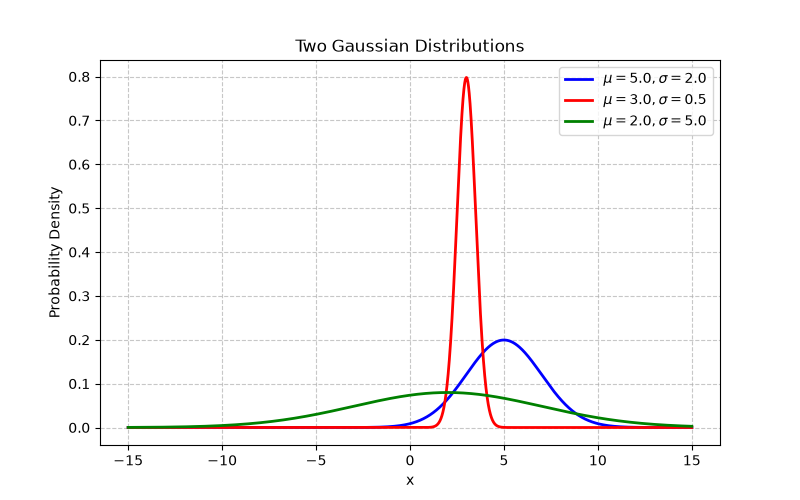
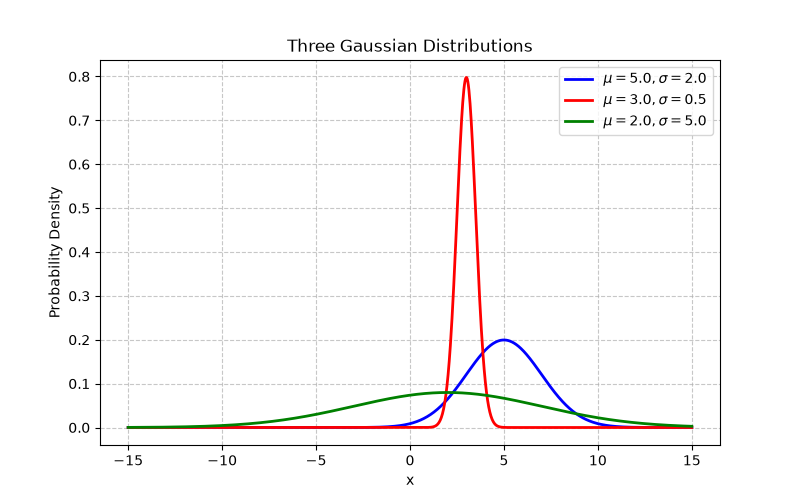
W6D3: claude added test functions

diff --git a/phase_1_math/week_6/d3_gaussian_class.py b/phase_1_math/week_6/d3_gaussian_class.py
@@ -25,49 +25,137 @@ class Gaussian():
         return mle_mean, mle_std
 
 
+def check(name, passed, detail=""):
+    """Print one PASS/FAIL line and return the boolean so the runner can tally."""
+    print(f"  [{'PASS' if passed else 'FAIL'}] {name}" + (f"   ({detail})" if detail else ""))
+    return bool(passed)
+
+
+def test_fit_recovers_parameters(mean, std, n=10_000, k=4.0):
+    """Acceptance test 1: sample() then fit() should recover the parameters we started with.
+
+    The tolerance is STATISTICAL, so it must be built from sigma and N -- not hardcoded:
+        SE(mu_hat)    = sigma / sqrt(N)
+        SE(sigma_hat) = sigma / sqrt(2N)        <- tighter than the mean's by sqrt(2)
+    k = 4 standard errors => roughly a 1-in-16,000 false-failure rate per assertion,
+    while still catching a sampler whose parameters are genuinely off.
+    """
+    g = Gaussian(mean, std)
+    mle_mean, mle_std = g.fit(g.sample(n))
+
+    tol_mean = k * std / np.sqrt(n)
+    tol_std = k * std / np.sqrt(2 * n)
+
+    ok_mean = check(
+        f"fit recovers mu={mean} from {n} samples",
+        math.isclose(mle_mean, mean, abs_tol=tol_mean),
+        f"mu_hat={mle_mean:.5f}, err={abs(mle_mean - mean):.5f}, tol={tol_mean:.5f}",
+    )
+    ok_std = check(
+        f"fit recovers sigma={std} from {n} samples",
+        math.isclose(mle_std, std, abs_tol=tol_std),
+        f"sigma_hat={mle_std:.5f}, err={abs(mle_std - std):.5f}, tol={tol_std:.5f}",
+    )
+    return ok_mean and ok_std
+
+
+def test_pdf_integrates_to_one(mean, std, span=12.0, n_grid=200_001):
+    """Acceptance test 2: the density must integrate to 1 over a wide grid.
+
+    This one is a DETERMINISTIC numerical integral, not an estimate, so np.isclose's
+    default tolerances (rtol=1e-5) are appropriate here -- note how different that is
+    from test 1's tolerance, despite both being "is this close to the right answer".
+    """
+    g = Gaussian(mean, std)
+    grid = np.linspace(mean - span * std, mean + span * std, n_grid)
+    area = np.trapezoid(g.pdf(grid), grid)
+    return check(
+        f"pdf integrates to 1 over mu +/- {span:g}sigma",
+        np.isclose(area, 1.0),
+        f"area={area:.10f}",
+    )
+
+
+def test_log_pdf_is_true_log_space(mean, std, n_sigma_far=40):
+    """Acceptance test 3: log_pdf must be computed in log-space, not as log(pdf(x)).
+
+    Two halves, and BOTH are needed:
+      (a) it agrees with log(pdf(x)) wherever pdf(x) is safely representable
+          -> proves the algebra is right, not just finite
+      (b) it stays finite far into the tail where pdf(x) has underflowed to 0.0
+          -> proves it never materialises exp(-large)
+    """
+    g = Gaussian(mean, std)
+
+    # (a) safe region: stay within a few sigma so pdf(x) is nowhere near underflow
+    safe = np.linspace(mean - 5 * std, mean + 5 * std, 1001)
+    max_err = float(np.max(np.abs(g.log_pdf(safe) - np.log(g.pdf(safe)))))
+    ok_agree = check(
+        "log_pdf agrees with log(pdf) in the safe region",
+        max_err < 1e-12,
+        f"max abs err={max_err:.3e}",
+    )
+
+    # (b) far tail: exponent is -(n_sigma_far**2)/2, well past float64's exp underflow (~-744)
+    far = mean + n_sigma_far * std
+    with np.errstate(divide="ignore"):
+        naive = float(np.log(g.pdf(far)))
+    lp = float(g.log_pdf(far))
+
+    ok_underflow = check(
+        f"pdf underflows to exactly 0 at mu+{n_sigma_far}sigma (so log(pdf) is unusable)",
+        g.pdf(far) == 0.0 and not np.isfinite(naive),
+        f"pdf={g.pdf(far)}, log(pdf)={naive}",
+    )
+    ok_finite = check(
+        f"log_pdf stays finite at mu+{n_sigma_far}sigma",
+        np.isfinite(lp),
+        f"log_pdf={lp:.6f}",
+    )
+    return ok_agree and ok_underflow and ok_finite
+
+
 def test():
 
     sample_size = 10000
     norm_dist_1 = Gaussian(5.0, 2.0)
-    norm_dist_1_samples = norm_dist_1.sample(sample_size)
-
-    # verify samples are from norm_dist_1 distribution:
-    dist_1_ver_mean, dist_1_ver_std = norm_dist_1.fit(norm_dist_1_samples)
-    if math.isclose(dist_1_ver_mean, norm_dist_1.mean, abs_tol=0.25) and math.isclose(dist_1_ver_std, norm_dist_1.std, abs_tol=0.25):
-        print(f"Distribution 1 samples are verified!!")
-    else:
-        print(f"Distribution 1 samples failed verification!!")
-    
-    print(f"MLE mean: {dist_1_ver_mean}, True mean: {norm_dist_1.mean}")
-    print(f"MLE std: {dist_1_ver_std}, True std: {norm_dist_1.std}")
-
     norm_dist_2 = Gaussian(3.0, 0.5)
-    norm_dist_2_samples = norm_dist_2.sample(sample_size)
 
-    # verify samples are from norm_dist_1 distribution:
-    dist_2_ver_mean, dist_2_ver_std = norm_dist_2.fit(norm_dist_2_samples)
-    if math.isclose(dist_2_ver_mean, norm_dist_2.mean, abs_tol=0.25) and math.isclose(dist_2_ver_std, norm_dist_2.std, abs_tol=0.25):
-        print(f"Distribution 2 samples are verified!!")
-    else:
-        print(f"Distribution 2 samples failed verification!!")
-    
-    print(f"MLE mean: {dist_2_ver_mean}, True mean: {norm_dist_2.mean}")
-    print(f"MLE std: {dist_2_ver_std}, True std: {norm_dist_2.std}")
+    results = []
+
+    print("Test 1 -- sample/fit round trip")
+    results.append(test_fit_recovers_parameters(norm_dist_1.mean, norm_dist_1.std, n=sample_size))
+    results.append(test_fit_recovers_parameters(norm_dist_2.mean, norm_dist_2.std, n=sample_size))
+    # mu = 0 is the case a relative tolerance can never handle -- worth keeping in the suite
+    results.append(test_fit_recovers_parameters(0.0, 1.0, n=sample_size))
+
+    print("\nTest 2 -- pdf normalisation")
+    results.append(test_pdf_integrates_to_one(norm_dist_1.mean, norm_dist_1.std))
+    results.append(test_pdf_integrates_to_one(norm_dist_2.mean, norm_dist_2.std))
+
+    print("\nTest 3 -- log_pdf is genuine log-space")
+    results.append(test_log_pdf_is_true_log_space(norm_dist_1.mean, norm_dist_1.std))
+    results.append(test_log_pdf_is_true_log_space(norm_dist_2.mean, norm_dist_2.std))
+
+    print(f"\n{sum(results)}/{len(results)} checks passed.\n")
 
     # now we can do some plotting
-    x_ax = np.linspace(-15, 15, sample_size)
+    # grid resolution is a rendering choice -- keep it separate from sample_size
+    x_ax = np.linspace(-15, 15, 1000)
 
     y1 = norm_dist_1.pdf(x_ax)
     y2 = norm_dist_2.pdf(x_ax)
     # let's try ploting a third
     y3 = Gaussian(2.0, 5.0).pdf(x_ax)
 
+    mixture_y1_y2 = (np.pi * y1) + (np.pi * y2) 
+
     plt.figure(figsize=(8, 5))
     plt.plot(x_ax, y1, label=r'$\mu=5.0, \sigma=2.0$', color='blue', linewidth=2)
     plt.plot(x_ax, y2, label=r'$\mu=3.0, \sigma=0.5$', color='red', linewidth=2)
     plt.plot(x_ax, y3, label=r'$\mu=2.0, \sigma=5.0$', color='green', linewidth=2)
 
-    plt.title('Two Gaussian Distributions')
+    plt.title('Three Gaussian Distributions')
     plt.xlabel('x')
     plt.ylabel('Probability Density')
     plt.legend()
